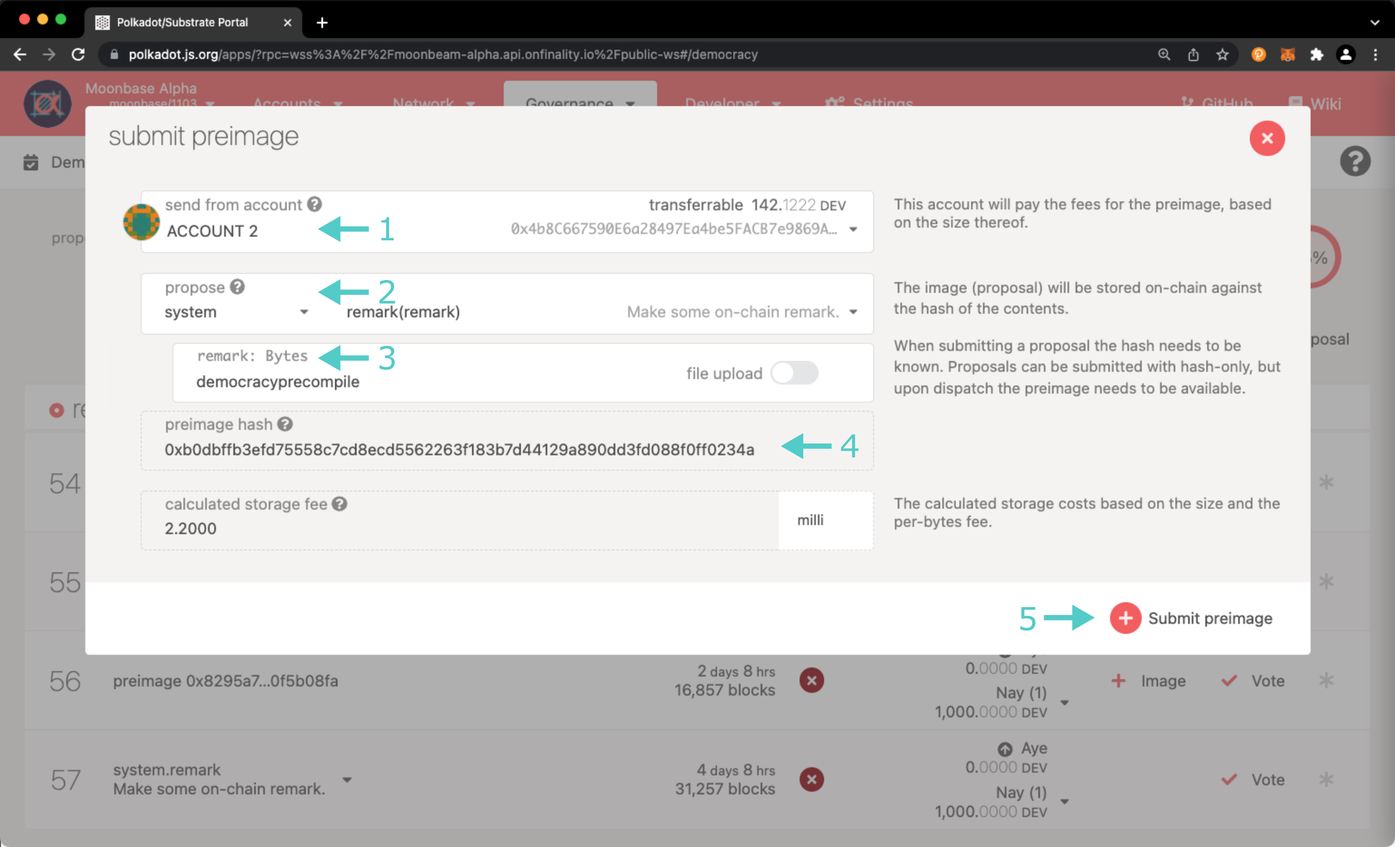
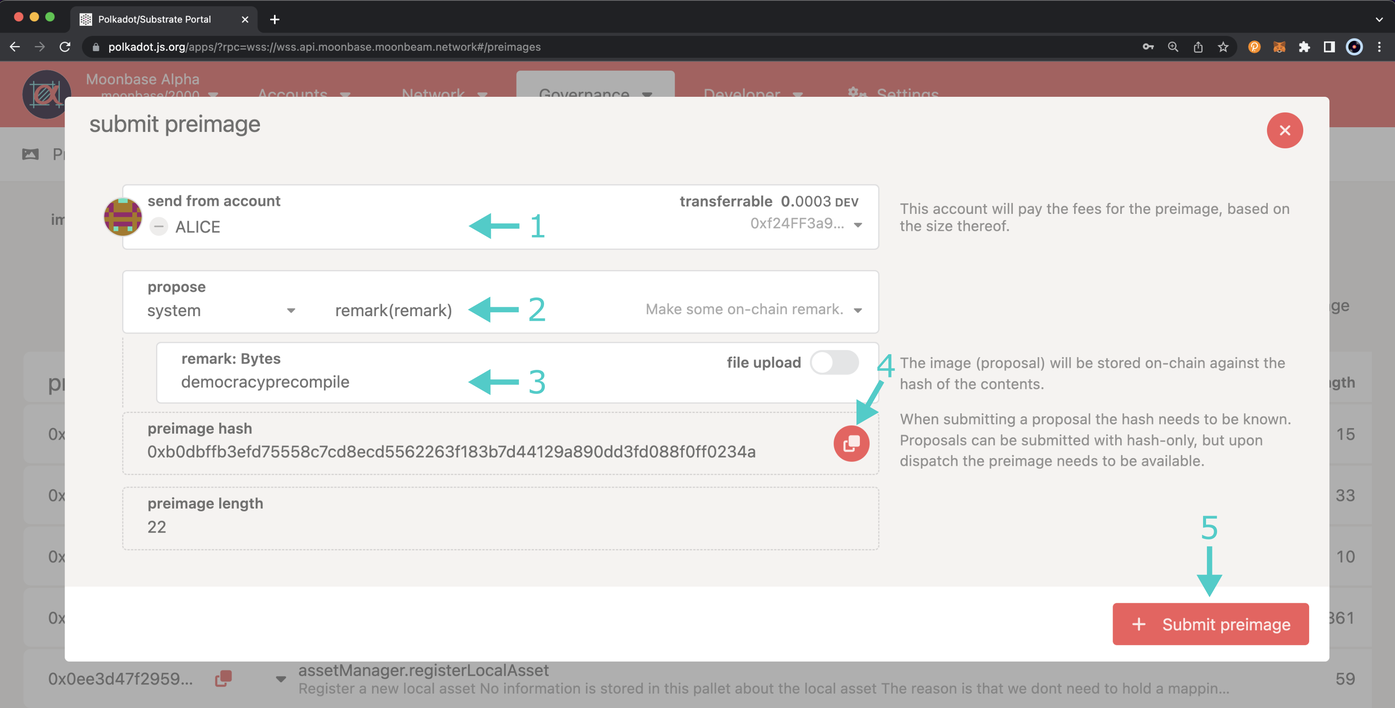
update preimage-related docs

diff --git a/builders/pallets-precompiles/pallets/democracy.md b/builders/pallets-precompiles/pallets/democracy.md
@@ -16,18 +16,22 @@ Some of the functionality of the democracy pallet is also available through a de
 
 This guide will provide an overview of the extrinsics, storage methods, and getters for the pallet constants available in the democracy pallet on Moonbeam.
 
-## Democracy Pallet Interface {: #parachain-staking-pallet-interface }
+## Democracy Pallet Interface {: #democracy-pallet-interface }
 
 ### Extrinsics {: #extrinsics }
 
 The democracy pallet provides the following extrinsics (functions):
 
 - **delegate**(to, conviction, balance) - delegates the voting power, with some given conviction, of the sending account to a given account. The balance delegated is locked for as long as it's delegated, and thereafter for the time appropriate for the conviction's lock period. The sending account must be delegating already or have no voting activity. Emits a `Delegated` event
-- **enactProposal**(proposalHash, index) - enacts a proposal from a referendum given the proposal hash and the index of the referendum
-- **noteImminentPreimage**(encodedProposal) - registers a preimage for an upcoming proposal in the dispatch queue given the encoded preimage of a proposal. Emits a `PreimageNoted` event
-- **notePreimage**(encodedProposal) - registers a preimage for an upcoming proposal given the encoded preimage of a proposal. This odesn't require the proposal to be in the dispatch queue but does require a deposit that is returned once enacted. Emits a `PreimageNoted` event
-- **propose**(proposalHash, value) - submits a proposal given the preimage hash and the deposit amount, which must be at least the minimum deposit. Emits a `Proposed` event
-- **reapPreimage**(proposalHash, proposalLenUpperBound) - removes an expired proposal preimage and collects the deposit. This will only work after the number of blocks in the voting period have passed and if it's the same account that created the preimage is making the call. If it's a different account, then the call must be made after the number of blocks in the enactment period. Emits a `PreimageReaped` event
+- **enactProposal**(proposalHash, index) - *deprecated as of runtime 2000* - enacts a proposal from a referendum given the proposal hash and the index of the referendum
+- **noteImminentPreimage**(encodedProposal) - *deprecated as of runtime 2000* - registers a preimage for an upcoming proposal in the dispatch queue given the encoded preimage of a proposal. Emits a `PreimageNoted` event
+- **notePreimage**(encodedProposal) - *deprecated as of runtime 2000* - registers a preimage for an upcoming proposal given the encoded preimage of a proposal. This odesn't require the proposal to be in the dispatch queue but does require a deposit that is returned once enacted. Emits a `PreimageNoted` event. **This extrinsic is now accessible through the [preimage pallet](/builders/pallets-precompiles/pallets/preimage/#extrinsics){target=_blank}**
+- **propose**(proposal, value) - submits a proposal given the proposal and the deposit amount, which must be at least the minimum deposit. Emits a `Proposed` event. The proposal can be one of three types: 
+    - `Legacy` - requires a Blake2-256 preimage hash with no preimage length. This type can no longer be created and temporarily exists to support transitioning from legacy state
+    - `Inline` - requires a bounded `Call`. Its encoding must be at most 128 bytes
+    - `Lookup` - requires a Blake2-256 preimage hash along with the length of the preimage
+
+- **reapPreimage**(proposalHash, proposalLenUpperBound) - *deprecated as of runtime 2000* - removes an expired proposal preimage and collects the deposit. This will only work after the number of blocks in the voting period have passed and if it's the same account that created the preimage is making the call. If it's a different account, then the call must be made after the number of blocks in the enactment period. Emits a `PreimageReaped` event
 - **removeOtherVote**(target, index) - removes a vote for a referendum given the account of the vote to be removed for and the index of the referendum. If the account passed in is the signer, then the functionality is the same as the `removeVote` function; otherwise the vote must have expired because the voter lost the referendum or the conviction period is over
 - **removeVote**(index) - removes a vote for a referendum given the index of the referendum. The vote can only be removed if the referendum was cancelled, is ongoing, it ended and the vote was in opposition to the result, if there was no conviction to the account's vote, or if the account made a split vote
 - **second**(proposal, secondsUpperBound) - seconds a proposal signaling agreement with the proposal given the index of the proposal and an upper bound on the current number of seconds on the proposal
@@ -39,9 +43,9 @@ Some of the extrinsics in the democracy pallet are subject to votes of the *Tech
 
 - **cancelProposal**(propIndex) - removes a proposal given the index of the proposal to cancel. Cancellations are in the hands of the *Root* account or if *3/5th of the Technical Committee* vote to cancel the proposal
 - **emergencyCancel**(refIndex) - schedules an emergency cancellation of a referendum given the index of the referendum to cancel. Emergency cancellations are in the hands of the *Root* account or if *3/5th of the Council* vote to cancel the referendum
-- **externalPropose**(proposalHash) - schedules a referendum to be brought to a vote once it is legal to schedule an external referendum given a proposal hash. If at least *1/2 of the Council* vote in approval the referendum will be tabled next
-- **externalProposeDefault**(proposalHash) - schedules a negative-turnout-bias referendum to be brought to a vote next once it is legal to schedule an external referendum given the preimage hash of a proposal. If at least *3/5th of the Council* vote in approval the referendum will be tabled next
-- **exernalProposeMajority**(proposalHash) - schedules a majority-carries referendum to be brought to a vote next once it is legal to schedule an external referendum given the preimage hash of a proposal. If at least *3/5th of the Council* vote in approval the referendum will be tabled next
+- **externalPropose**(proposal) - schedules a referendum to be brought to a vote once it is legal to schedule an external referendum given a proposal hash. If at least *1/2 of the Council* vote in approval the referendum will be tabled next. Please refer to the three types of proposals, in the **propose** extrinsic description above
+- **externalProposeDefault**(proposal) - schedules a negative-turnout-bias referendum to be brought to a vote next once it is legal to schedule an external referendum given the preimage hash of a proposal. If at least *3/5th of the Council* vote in approval the referendum will be tabled next. Please refer to the three types of proposals, in the **propose** extrinsic description above
+- **exernalProposeMajority**(proposal) - schedules a majority-carries referendum to be brought to a vote next once it is legal to schedule an external referendum given the preimage hash of a proposal. If at least *3/5th of the Council* vote in approval the referendum will be tabled next. Please refer to the three types of proposals, in the **propose** extrinsic description above
 - **fastTrack**(proposalHash, votingPeriod, delay) - schedules a currently externally-proposed majority-carries referendum to be brought to a vote immediately given the proposal hash, the period allowed for voting on the proposal, and the number of blocks  after an approval and it is enacted. If there is no externally-proposed referendum currently, or if there is one but it is not a majority-carries referendum then it fails. If at least *1/2 of the Technical Committee* vote in approval the referendum will be tabled immediately
 - **noteImminentPreimageOperational**(encodedProposal) - registers a preimage for an upcoming proposal in the dispatch queue given the encoded preimage of a proposal. Emits a `PreimageNoted` event. Must be called by a member of the *Council*
 - **notePreimageOperational**(encodedProposal) - registers a preimage for an upcoming proposal given the encoded preimage of a proposal. This odesn't require the proposal to be in the dispatch queue but does require a deposit that is returned once enacted. Emits a `PreimageNoted` event. Must be called by a member of the *Council*
@@ -50,7 +54,7 @@ Some of the extrinsics in the democracy pallet are subject to votes of the *Tech
 There are also some extrinsics in the democracy pallet that can only be dispatched by the *root* account:
 
 - **blacklist**(proposalHash, maybeRefIndex) - permanently places a proposal given a proposal hash into the blacklist which prevents it from ever being proposed again. If called on a queued public or external proposal, then this will result in it being removed. If the `maybeRefIndex` supplied is an active referendum that corresponds to the proposal hash, the proposal will be cancelled
-- **cancelQueued**(which) - cancels a proposal queued for enactment given the index of the referendum to cancel
+- **cancelQueued**(which) - *deprecated as of runtime 2000* - cancels a proposal queued for enactment given the index of the referendum to cancel
 - **cancelReferendum**(refIndex) - removes a referendum given the index of the referendum to cancel
 - **clearPublicProposals**() - clears all public proposals
 
@@ -65,12 +69,11 @@ The democracy pallet includes the following read-only storage methods to obtain 
 - **lowestUnbaked**() - returns the lowest referendum index that corresponds to an unbaked referendum
 - **nextExternal**() - returns the next referendum to be brought to a vote for whenever it would be valid to vote on an external proposal
 - **palletVersion**() - returns the current pallet version
-- **preimages**(H256) - returns the map of proposal preimage hashes of all preimages or for a given preimage hash along with who registered it (`provider`), their deposit, and the block number at which it was deposited (`since`)
+- **preimages**(H256) - *deprecated as of runtime 2000* - **this storage item is now accessible through the [preimage pallet](/builders/pallets-precompiles/pallets/preimage/#storage-methods){target=_blank}**
 - **publicPropCount**() - returns the number of public proposals that have been made so far
 - **publicProps**() - returns a record of the public proposals
 - **referendumCount**() - returns the number of referenda started so far
 - **referendumInfoOf**() - returns information for a referendum given the referendum's index
-- **storageVersion**() - returns the storage version of the pallet
 - **votingOf**(AccountId20) - returns a record of all of the votes for a particular voter given the address of the voter
 
 ### Pallet Constants {: #constants }
@@ -83,8 +86,10 @@ The democracy pallet includes the following read-only functions to obtain pallet
 - **instantAllowed**() - returns a boolean indicating whether an emergency origin is even allowed to happen
 - **launchPeriod**() - returns how often (in blocks) new public referenda are launched
 - **maxProposals**() - returns the maximum number of public proposals that can exist at any time
+- **maxBlacklisted**() - returns the maximum number of items which can be blacklisted
+- **maxDeposits**() - returns the maximum number of deposits a public proposal may have at any time
 - **maxVotes**() - returns the maximum number of votes for an account
 - **minimumDeposit**() - returns the minimum amount to be used as a deposit for a public referendum proposal
-- **preimageByteDeposit**() - returns the amount of balance that must be deposited per byte of preimage stored
+- **preimageByteDeposit**() - *deprecated as of runtime 2000* - returns the amount of balance that must be deposited per byte of preimage stored
 - **voteLockingPeriod**() - returns the minimum period of vote locking
 - **votingPeriod**() - returns how often (in blocks) to check for new votes

diff --git a/builders/pallets-precompiles/precompiles/democracy.md b/builders/pallets-precompiles/precompiles/democracy.md
@@ -42,6 +42,15 @@ The interface includes the following functions:
  - **publicPropCount**() — read-only function that returns the total number of public proposals past and present. Uses the [`publicPropCount`](/builders/pallets-precompiles/pallets/democracy/#:~:text=publicPropCount()){target=_blank} method of the democracy pallet
  - **depositOf**(*uint256* propIndex) — read-only function that returns the total number of tokens locked behind the proposal. Uses the [`depositOf`](/builders/pallets-precompiles/pallets/democracy/#:~:text=depositOf(u32)){target=_blank} method of the democracy pallet
  - **lowestUnbaked**() — read-only function that returns the referendum with the lowest index that is currently being voted on. For clarity, a baked referendum is one that has been closed (and if passed, scheduled for enactment). An unbaked referendum is therefore one in which voting is ongoing. Uses the [`lowestUnbaked`](/builders/pallets-precompiles/pallets/democracy/#:~:text=lowestUnbaked()){target=_blank} method of the democracy pallet
+ - **ongoingReferendumInfo**(*uint256* refIndex) — read-only function that returns the details of the specified ongoing referendum in the form of a tuple that includes the following:
+  - Block in which the referendum ended (*uint256*)
+  - The proposal hash (*bytes32*)
+  - [The biasing mechanism](https://wiki.polkadot.network/docs/learn-governance#super-majority-approve){target=_blank} where 0 is SuperMajorityApprove, 1 is SuperMajorityAgainst, 2 is SimpleMajority (*uint256*)
+  - The enactment delay period (*uint256*)
+  - The total aye vote, including conviction (*uint256*)
+  - The total nay note, including conviction (*uint256*)
+  - The total turnout, not including conviction (*uint256*)
+- **finishedReferendumInfo**(*uint256* refIndex) — read-only function that returns a boolean indicating whether a referendum passed and the block at which it finished
  - **propose**(*bytes32* proposalHash, *uint256* value) — submit a proposal by providing a hash and the number of tokens to lock. Uses the [`propose`](/builders/pallets-precompiles/pallets/democracy/#:~:text=propose(proposalHash, value)){target=_blank} method of the democracy pallet
  - **second**(*uint256* propIndex, *uint256* secondsUpperBound) — second a proposal by providing the proposal index and a number greater than or equal to the number of existing seconds for this proposal (necessary to calculate the weight of the call). An amount is not needed because seconds require the same amount the original proposer locked. Uses the [`second`](/builders/pallets-precompiles/pallets/democracy/#:~:text=second(proposal, secondsUpperBound)){target=_blank} method of the democracy pallet 
  - **standardVote**(*uint256* refIndex, *bool* aye, *uint256* voteAmount, *uint256* conviction) — vote in a referendum by providing the proposal index, the vote direction (`true` is a vote to enact the proposal, `false` is a vote to keep the status quo), the number of tokens to lock, and the conviction. Conviction is an integer from `0` to `6` where `0` is no lock time and `6` is the maximum lock time. Uses the [`vote`](/builders/pallets-precompiles/pallets/democracy/#:~:text=vote(refIndex, vote)){target=_blank} method of the democracy pallet 
@@ -52,19 +61,14 @@ The interface includes the following functions:
  - **notePreimage**(*bytes* encodedProposal) — Registers a preimage for an upcoming proposal. This doesn't require the proposal to be in the dispatch queue but does require a deposit which is returned once enacted. Uses the [`notePreimage`](/builders/pallets-precompiles/pallets/democracy/#:~:text=notePreimage(encodedProposal)){target=_blank} method of the democracy pallet
  - **noteImminentPreimage**(*bytes* encodedProposal) — Register the preimage for an upcoming proposal. This requires the proposal to be in the dispatch queue. No deposit is needed. When this call is successful, i.e. the preimage has not been uploaded before and matches some imminent proposal, no fee is paid. Uses the [`noteImminentPreimage`](/builders/pallets-precompiles/pallets/democracy/#:~:text=noteImminentPreimage(encodedProposal)){target=_blank} method of the democracy pallet
 
-The interface also includes the following functions which are not currently supported but may be supported in the future:
+The interface also includes the following events:
 
-  - **ongoingReferendumInfo**(*uint256* refIndex) — read-only function that returns the details of the specified ongoing referendum in the form of a tuple that includes the following:
-    - Block in which the referendum ended (*uint256*)
-    - The proposal hash (*bytes32*)
-    - [The biasing mechanism](https://wiki.polkadot.network/docs/learn-governance#super-majority-approve){target=_blank} where 0 is SuperMajorityApprove, 1 is SuperMajorityAgainst, 2 is SimpleMajority (*uint256*)
-    - The enactment delay period (*uint256*)
-    - The total aye vote, including conviction (*uint256*)
-    - The total nay note, including conviction (*uint256*)
-    - The total turnout, not including conviction (*uint256*)
+- **Proposed**(*uint32 indexed* proposalIndex, *uint256* deposit) - emitted when a motion has been proposed
+- **Seconded**(*uint32 indexed* proposalIndex, *address* seconder) - emitted when an account has seconded a proposal
+- **StandardVote**(*uint32 indexed* referendumIndex, *address* voter, *bool* aye, *uint256* voteAmount, *uint8* conviction) - emitted when an account has made a standard vote
+- **Delegated**(*address indexed* who, *address* target) - emitted when an account has delegated some voting power to another account
+- **Undelegated**(*address indexed* who) - emitted when an account has undelegated some of their voting power from another account
 
-  - **finishedReferendumInfo**(*uint256* refIndex) — read-only function that returns a boolean indicating whether a referendum passed and the block at which it finished
- 
 ## Interact with the Solidity Interface {: #interact-with-the-solidity-interface }
 
 ### Checking Prerequisites {: #checking-prerequisites } 
@@ -101,12 +105,14 @@ The below example is demonstrated on Moonbase Alpha, however, similar steps can 
 
 ### Submit a Proposal {: #submit-a-proposal } 
 
-You can submit a proposal via the [democracy precompile](https://github.com/PureStake/moonbeam/blob/master/precompiles/pallet-democracy/DemocracyInterface.sol){target=_blank} if you have the hash of the proposal. You can also submit the preimage if you have the encoded proposal. To get the proposal hash and the encoded proposal, navigate to the **Democracy** tab of [Polkadot.js Apps](https://polkadot.js.org/apps/?rpc=wss%3A%2F%2Fmoonbeam-alpha.api.onfinality.io%2Fpublic-ws#/democracy){target=_blank}, click on **+ Submit preimage**, and take the following steps:
+You can submit a proposal via the `propose` function of the [democracy precompile](https://github.com/PureStake/moonbeam/blob/master/precompiles/pallet-democracy/DemocracyInterface.sol){target=_blank} as long as you have the preimage hash of the proposal. But before a proposal can be submitted, you'll first need to submit the preimage by passing in the encoded proposal data to the `notePreimage` function.
+
+In this section, you'll get the preimage hash and the encoded proposal data for a proposal. First, you can get the preimage hash by navigating to the **Governance** tab of [Polkadot.js Apps](https://polkadot.js.org/apps/?rpc=wss%3A%2F%2Fmoonbeam-alpha.api.onfinality.io%2Fpublic-ws#/democracy){target=_blank} and selecting **Preimages** from the dropdown. From the **Preimages** page, click on **+ Add preimage**, and take the following steps:
 
  1. Select an account (any account is fine because you're not submitting any transaction here)
  2. Choose the pallet you want to interact with and the dispatchable function (or action) to propose. The action you choose will determine the fields that need to fill in the following steps. In this example, it is the **system** pallet and the **remark** function
  3. Enter the text of the remark, ensuring it is unique. Duplicate proposals such as "Hello World!" will not be accepted
- 4. Copy the preimage hash. This represents the proposal. You will use this hash when submitting the proposal via the democracy precompile
+ 4. Copy the preimage hash, which represents the proposal, and save it as it will be used in the following steps to submit the proposal via the democracy precompile
  5. Click the **Submit preimage** button but don't sign or confirm the transaction on the next page 
 
 ![Get the proposal hash](/images/builders/pallets-precompiles/precompiles/democracy/democracy-4.png)
@@ -119,7 +125,16 @@ On the next screen, take the following steps:
 ![Get the encoded proposal](/images/builders/pallets-precompiles/precompiles/democracy/democracy-5.png)
 
 !!! note
-     You should NOT sign and submit the transaction here. You will submit this information via the **notePreimage** function in a later step.  
+     You should NOT sign and submit the transaction here. You will submit this information via the **notePreimage** function in the next step.  
+
+Now you can take the encoded proposal that you got from [Polkadot.js Apps](https://polkadot.js.org/apps/?rpc=wss%3A%2F%2Fmoonbeam-alpha.api.onfinality.io%2Fpublic-ws#/democracy){target=_blank} and submit it via the `notePreimage` function of the democracy precompile. Despite its name, the preimage is not required to be submitted before the proposal. However, submitting the preimage is required before a proposal can be enacted. To submit the preimage via the `notePreimage` function, take the following steps:
+
+1. Expand the democracy precompile contract to see the available functions 
+2. Find the **notePreimage** function and press the button to expand the section
+3. Copy the encoded proposal that you noted in the prior section. Note, the encoded proposal is not the same as the preimage hash. Ensure you are are entering the correct value into this field
+4. Press **transact** and confirm the transaction in MetaMask
+
+![Submit the preimage](/images/builders/pallets-precompiles/precompiles/democracy/democracy-7.png)
 
 Next you can call the `propose` function of the Solidity interface by taking the following steps:
 
@@ -130,15 +145,6 @@ Next you can call the `propose` function of the Solidity interface by taking the
 5. Press **transact** and confirm the transaction in MetaMask
 
 ![Call the propose function](/images/builders/pallets-precompiles/precompiles/democracy/democracy-6.png)
-
-Now you can take the encoded proposal that you got from [Polkadot.js Apps](https://polkadot.js.org/apps/?rpc=wss%3A%2F%2Fmoonbeam-alpha.api.onfinality.io%2Fpublic-ws#/democracy){target=_blank} and submit it via the `notePreimage` function of the democracy precompile. Despite its name, the preimage is not required to be submitted before the proposal. However, submitting the preimage is required before a proposal can be enacted. To submit the preimage via the `notePreimage` function, take the following steps:
-
-1. Expand the democracy precompile contract to see the available functions 
-2. Find the **notePreimage** function and press the button to expand the section
-3. Copy the encoded proposal that you noted in the prior section. Note, the encoded proposal is not the same as the preimage hash. Ensure you are are entering the correct value into this field
-4. Press **transact** and confirm the transaction in MetaMask
-
-![Submit the preimage](/images/builders/pallets-precompiles/precompiles/democracy/democracy-7.png)
 
 After your transaction has been confirmed you can return to the **Democracy** section of [Polkadot.js Apps](https://polkadot.js.org/apps/?rpc=wss%3A%2F%2Fmoonbeam-alpha.api.onfinality.io%2Fpublic-ws#/democracy){target=_blank} to see your proposal listed in the proposal queue.
 

diff --git a/tokens/governance/proposals.md b/tokens/governance/proposals.md
@@ -65,9 +65,9 @@ This guide will show you how to submit a proposal on Moonbase Alpha. It can be a
 
 This section goes over the process of creating a proposal, from a preimage until it reaches public referenda. Instead of making a generic example, this guide will actually create a real proposal that will serve as a base for this guide and others.
 
-To make a proposal in the network, you need to use the Polkadot.js Apps interface. To do so, you need to import an Ethereum-style account first (H160 address), which you can do following the [Creating or Importing an H160 Account](/tokens/connect/polkadotjs/#creating-or-importing-an-h160-account){target=_blank} guide. For this example, three accounts were imported and named with super original names: Alice, Bob, and Charley.
+To make a proposal in the network, you need to use the Polkadot.js Apps interface. To do so, you need to import an Ethereum-style account first (H160 address), which you can do following the [Creating or Importing an H160 Account](/tokens/connect/polkadotjs/#creating-or-importing-an-h160-account){target=_blank} guide. For this example, three accounts were imported and named with super original names: Alice, Bob, and Charlie.
 
-![Accounts in Polkadot.js](/images/tokens/governance/proposals/proposals-1.png)
+![Accounts in Polkadot.js](/images/tokens/governance/proposals/new/proposals-1.png)
 
 This proposal is to make permanent on-chain the remark "This is a unique string."
 
@@ -75,9 +75,7 @@ This proposal is to make permanent on-chain the remark "This is a unique string.
 
 The first step is to submit a preimage of the proposal. This is because the storage cost of large preimages can be pretty hefty, as the preimage contains all the information regarding the proposal itself. With this configuration, one account with more funds can submit a preimage and another account can submit the proposal.
 
-Everything related to governance lives under the **Democracy** tab. Once there, click on the **Submit preimage** button.
-
-![Submit Preimage](/images/tokens/governance/proposals/proposals-2.png)
+Everything related to governance lives under the **Governance** tab, including preimages. So, from the **Governance** dropdown, you can select **Preimages**. Once there, click on the **Add preimage** button.
 
 Here, you need to provide the following information:
 
@@ -87,18 +85,18 @@ Here, you need to provide the following information:
  4. Copy the preimage hash. This represents the proposal. You will use this hash when submitting the actual proposal
  5. Click the **Submit preimage** button and sign the transaction
 
-![Fill in the Preimage Information](/images/tokens/governance/proposals/proposals-3.png)
+![Fill in the Preimage Information](/images/tokens/governance/proposals/new/proposals-3.png)
 
 !!! note
     Make sure you copy the preimage hash, as it is necessary to submit the proposal.
 
-Note that the storage cost of the preimage is displayed at the bottom left corner of this window. After the transaction is submitted, you will see some confirmations on the top right corner of the Polkadot.js Apps interface, but nothing will have changed in the main democracy screen. However, don't worry. If the transaction is confirmed, the preimage has been submitted.
+Note that the storage cost of the preimage is displayed at the bottom left corner of this window. After the transaction is submitted, you will see some confirmations on the top right corner of the Polkadot.js Apps interface and the preimage will be added to the list of **preimages**.
 
 ### Submitting a Proposal {: #submitting-a-proposal } 
 
-Once you have committed the preimage (check the previous section), the roadmap's next major milestone is to submit the proposal related to it. To do so, in the main democracy screen, click on **Submit proposal**.
+Once you have committed the preimage (check the previous section), the roadmap's next major milestone is to submit the proposal related to it. To do so, select **Democracy** from the **Governance** dropdown, and click on **Submit proposal**.
 
-![Submit proposal](/images/tokens/governance/proposals/proposals-4.png)
+![Submit proposal](/images/tokens/governance/proposals/new/proposals-4.png)
 
 Here, you need to provide the following information:
 
@@ -107,14 +105,12 @@ Here, you need to provide the following information:
  3. Set the locked balance. This is the number of tokens the proposer bonds with his proposal. Remember that the proposal with the most amount of tokens locked goes to referendum. The minimum deposit is displayed just below this input tab
  4. Click the **Submit proposal** button and sign the transaction
 
-![Fill in the Proposal Information](/images/tokens/governance/proposals/proposals-5.png)
+![Fill in the Proposal Information](/images/tokens/governance/proposals/new/proposals-5.png)
 
 !!! note
     Tokens might be locked for an indeterminate amount of time because it is unknown when a proposal may become a referendum (if ever).
 
 After the transaction is submitted, you will see some confirmations on the top right corner of the Polkadot.js Apps interface. You should also see the proposal listed in the **Proposals** section, displaying the proposer and the amounts of tokens locked, and it is now ready to be seconded!
-
-![Proposal listed](/images/tokens/governance/proposals/proposals-6.png)
 
 ### Seconding a Proposal {: #seconding-a-proposal } 
 
@@ -123,22 +119,22 @@ To second a proposal means that you agree with it and want to back it up with yo
 !!! note
     A single account can second a proposal multiple times. This is by design, as an account could just send tokens to different addresses and use them to second the proposal. What counts is the number of tokens backing up a proposal, not the number of vouches it has received.
 
-This section outlines the steps to second the proposal made in the previous section. To do so, click the **Second** button that is located to the right of the respective proposal.
+This section outlines the steps to second the proposal made in the previous section. To do so, click the **Endorse** button that is located to the right of the respective proposal.
 
-![Proposal listed to Second](/images/tokens/governance/proposals/proposals-7.png)
+![Proposal listed to Second](/images/tokens/governance/proposals/new/proposals-6.png)
 
 Here, you need to provide the following information:
 
- 1. Select the account you want to second the proposal with (in this case, Charley)
+ 1. Select the account you want to second the proposal with (in this case, Charlie)
  2. Verify the number of tokens required to second the proposal
- 3. Click the **Second** button and sign the transaction
+ 3. Click the **Endorse** button and sign the transaction
 
-![Fill in Second Information](/images/tokens/governance/proposals/proposals-8.png)
+![Fill in Endorse Information](/images/tokens/governance/proposals/new/proposals-7.png)
 
 !!! note
     Tokens might be locked for an indeterminate amount of time because it is unknown when a proposal may become a referendum (if ever)
 
 After the transaction is submitted, you will see some confirmations on the top right corner of the Polkadot.js Apps interface. You should also see the proposal listed in the **Proposals** section, displaying the proposer and the amounts of tokens locked and listing the users that have seconded this proposal!
 
-![Proposal Seconded](/images/tokens/governance/proposals/proposals-9.png)
+![Proposal Endorsed](/images/tokens/governance/proposals/new/proposals-8.png)
 

diff --git a/builders/pallets-precompiles/pallets/preimage.md b/builders/pallets-precompiles/pallets/preimage.md
@@ -1,0 +1,36 @@
+---
+title: Preimage Pallet
+description: Learn about the available extrinsics and storage methods for the preimage pallet on Moonbeam, which are used to store and manage on-chain preimages.
+keywords: democracy, substrate, pallet, moonbeam, polkadot, preimage
+---
+
+# The Preimage Pallet
+
+![Preimage Moonbeam Banner](/images/builders/pallets-precompiles/pallets/preimage-banner.png)
+
+## Introduction {: #introduction }
+
+The preimage pallet allows for the users and the runtime to store the preimage of a hash on chain. This can be used by other pallets for storing and managing large byte-blobs. For example, token holders can submit a democracy proposal through the democracy pallet using a preimage hash. 
+
+Some of the functionality of the preimage pallet is also available through the democracy precompile. The precompile is a Solidity interface that enables you to perform governance functions using the Ethereum API. Please refer to the [Democracy Precompile](/builders/pallets-precompiles/precompiles/democracy){target=_blank} guide for more information.
+
+This guide will provide an overview of the extrinsics, storage methods, and getters for the pallet constants available in the preimage pallet on Moonbeam.
+
+## Preimage Pallet Interface {: #preimage-pallet-interface }
+
+### Extrinsics {: #extrinsics }
+
+The preimage pallet provides the following extrinsics (functions):
+
+- **notePreimage**(encodedProposal) - registers a preimage for an upcoming proposal given the encoded preimage of a proposal. If the preimage was previously requested, no fees or deposits are taken for providing the preimage. Otherwise, a deposit is taken proportional to the size of the preimage. Emits a `Noted` event
+- **requestPreimage**(bytes) - requests a preimage be uploaded to the chain without paying any fees or deposits. If the preimage requests has already been provided on-chain, we unreserve any deposit a user may have paid, and take the control of the preimage out of their hands. Emits a `Requested` event
+- **unnotePreimage**(hash) - clears an unrequested preimage from the runtime storage given the hash of the preimage to be removed. Emits a `Cleared` event
+- **unrequestPreimage**(hash) - clears a previously made request for a preimage. Emits a `Cleared` event
+
+### Storage Methods {: #storage-methods }
+
+The preimage pallet includes the following read-only storage methods to obtain chain state data:
+
+- **palletVersion**() - returns the current pallet version
+- **preimageFor**((H256, u32)) - returns a list of the proposal hashes of all preimages along with their associated data. If given a proposal hash and the length of the associated data, a specific preimage is returned
+- **statusFor**(H256) - returns the request status of all preimages or for a given preimage hash 

diff --git a/tokens/governance/voting.md b/tokens/governance/voting.md
@@ -70,7 +70,7 @@ This section goes over the process of voting on a referendum. The guide assumes 
 
 To vote on a proposal in the network, you need to use the Polkadot.js Apps interface. To do so, you need to import an Ethereum-style account first (H160 address), which you can do by following the [Creating or Importing an H160 Account](/tokens/connect/polkadotjs/#creating-or-importing-an-h160-account){target=_blank} guide. For this example, three accounts were imported and named with super original names: Alice, Bob, and Charley.
 
-![Accounts in Polkadot.js](/images/tokens/governance/proposals/proposals-1.png)
+![Accounts in Polkadot.js](/images/tokens/governance/voting/vote-1.png)
 
 The proposal being voted will embed the remark "This is a unique string." on chain permanently.
 
